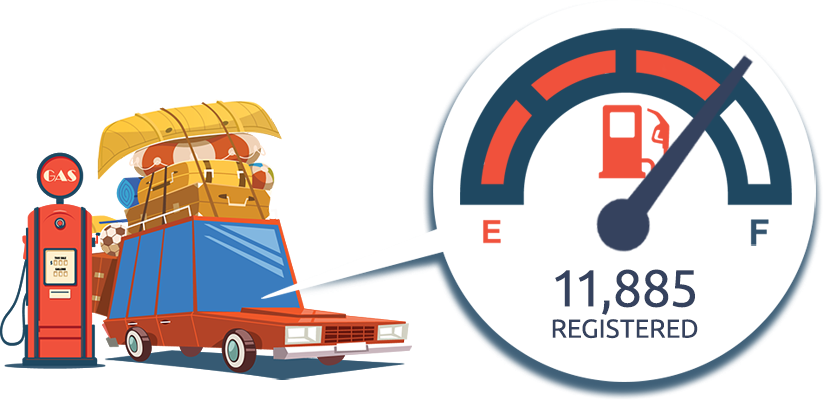
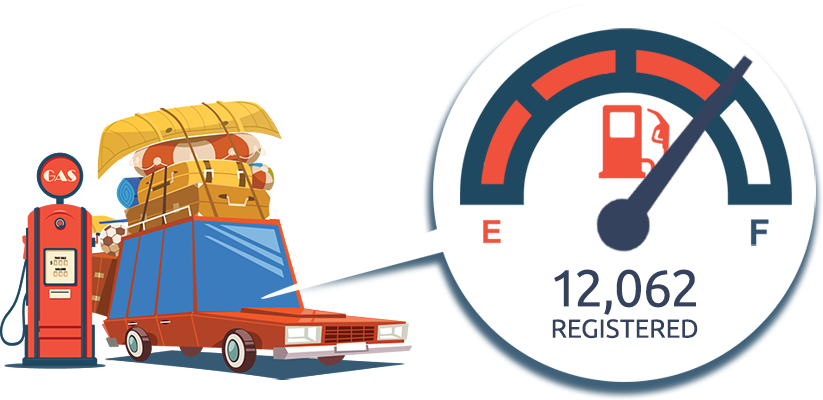
number update

Changed region(s): [[0.6683, 0.66, 0.8505, 0.78]]

diff --git a/summer-reading/registration/index.html b/summer-reading/registration/index.html
@@ -442,7 +442,7 @@ height="0" width="0" style="display:none;visibility:hidden"></iframe>
         <div class="box-one">
           <h4 class="black roboto no-margin-top">Help us meet our community goal of 16,775 people signed up!</h4>
           <div>If we meet our goal, the Douglas County Libraries Foundation will donate $500 to Nature’s Educators, a top-rated nonprofit educational wildlife organization in Douglas County. </div>
-          <div class="margin-10"><span class="odometer">1</span><span class="odometer">1</span><span class="font-weight-500 black">,</span><span class="odometer">8</span><span class="odometer">8</span><span class="odometer">5</span></div>
+          <div class="margin-10"><span class="odometer">1</span><span class="odometer">2</span><span class="font-weight-500 black">,</span><span class="odometer">0</span><span class="odometer">6</span><span class="odometer">2</span></div>
           <div class="small text-uppercase">Registered</div>
         </div>
         <div class="box-two">
